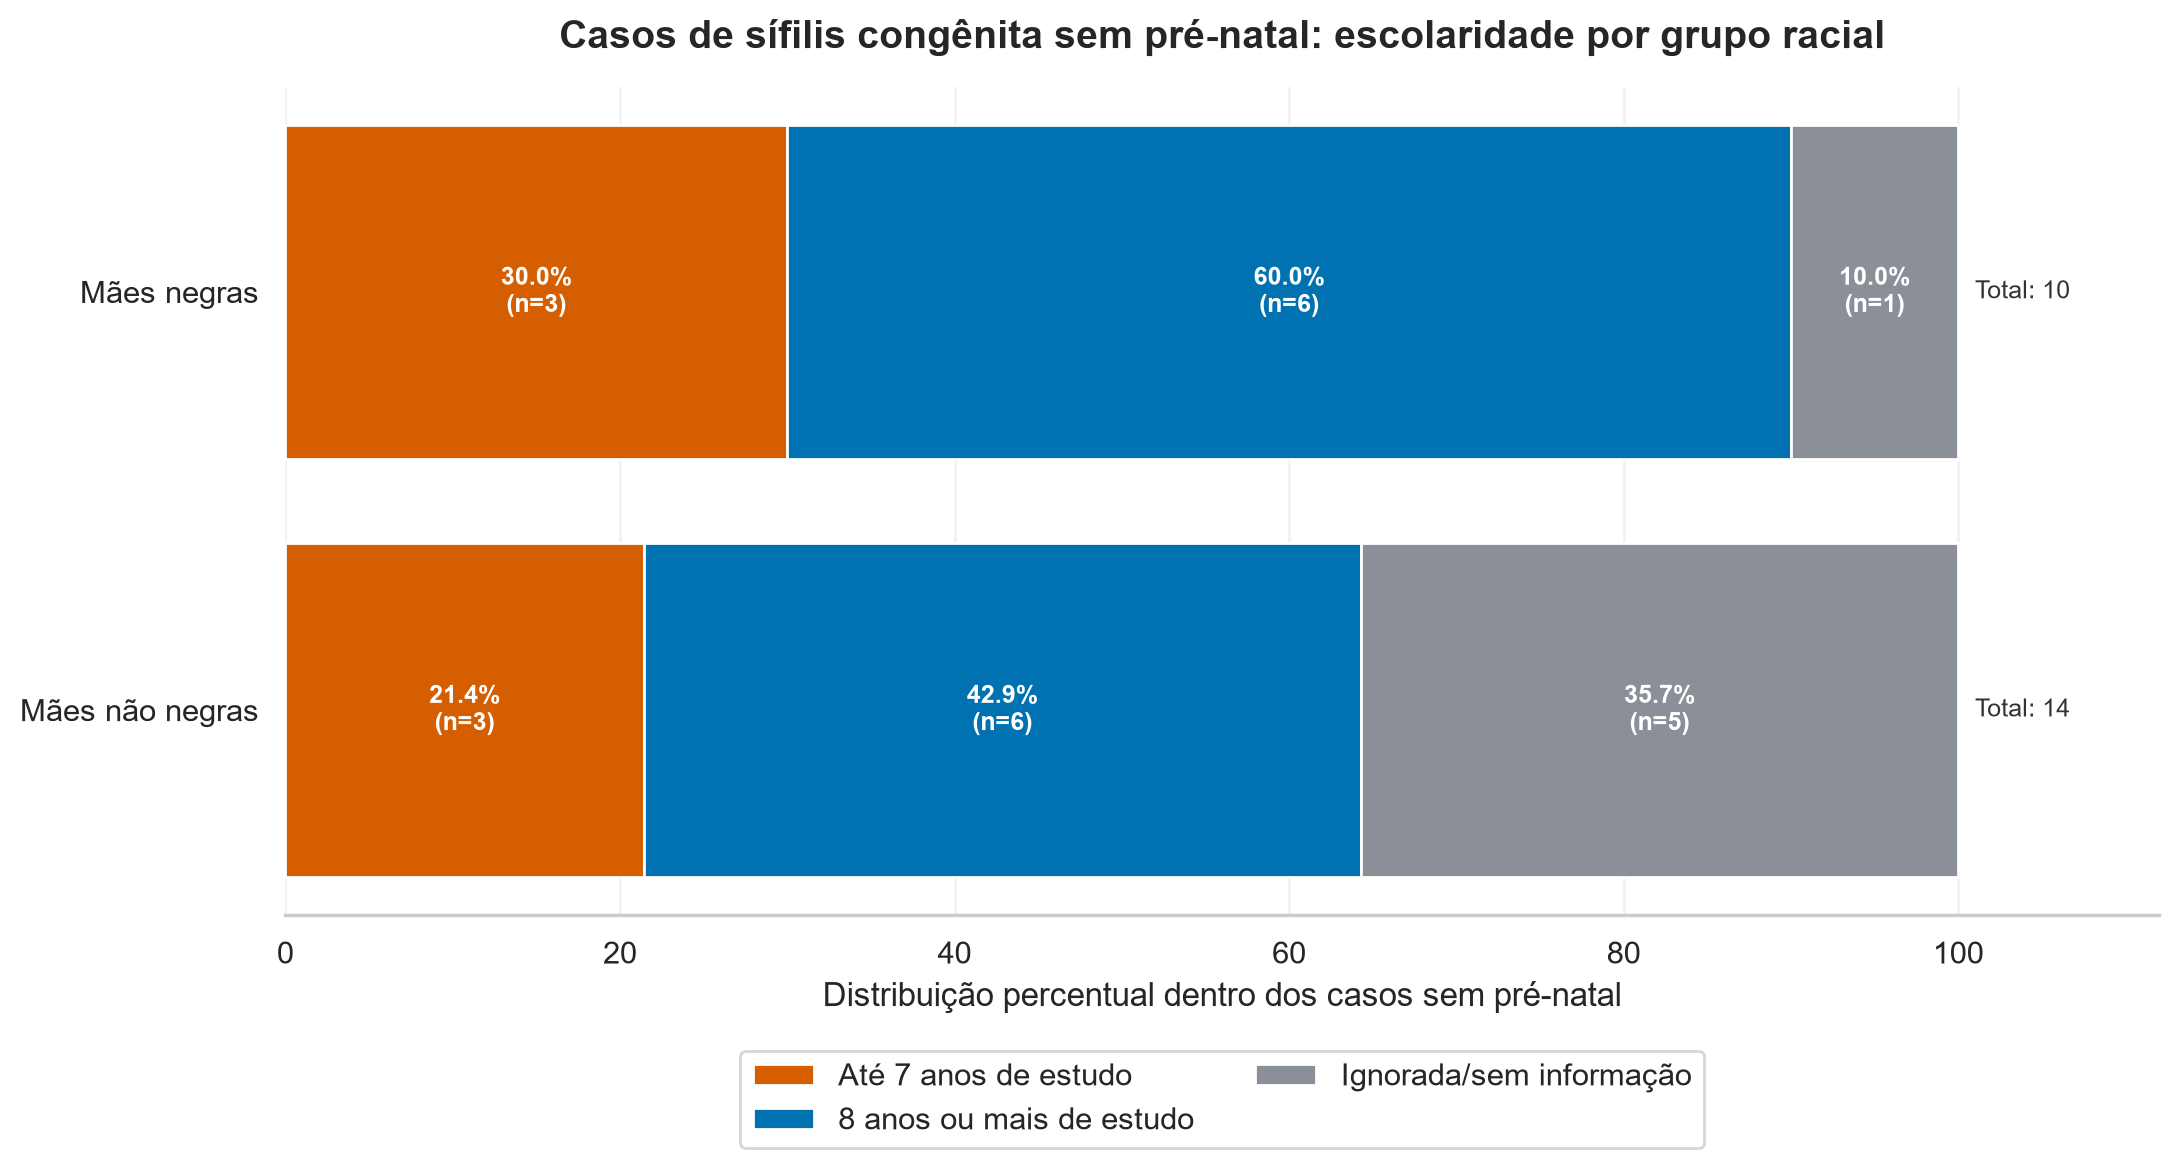
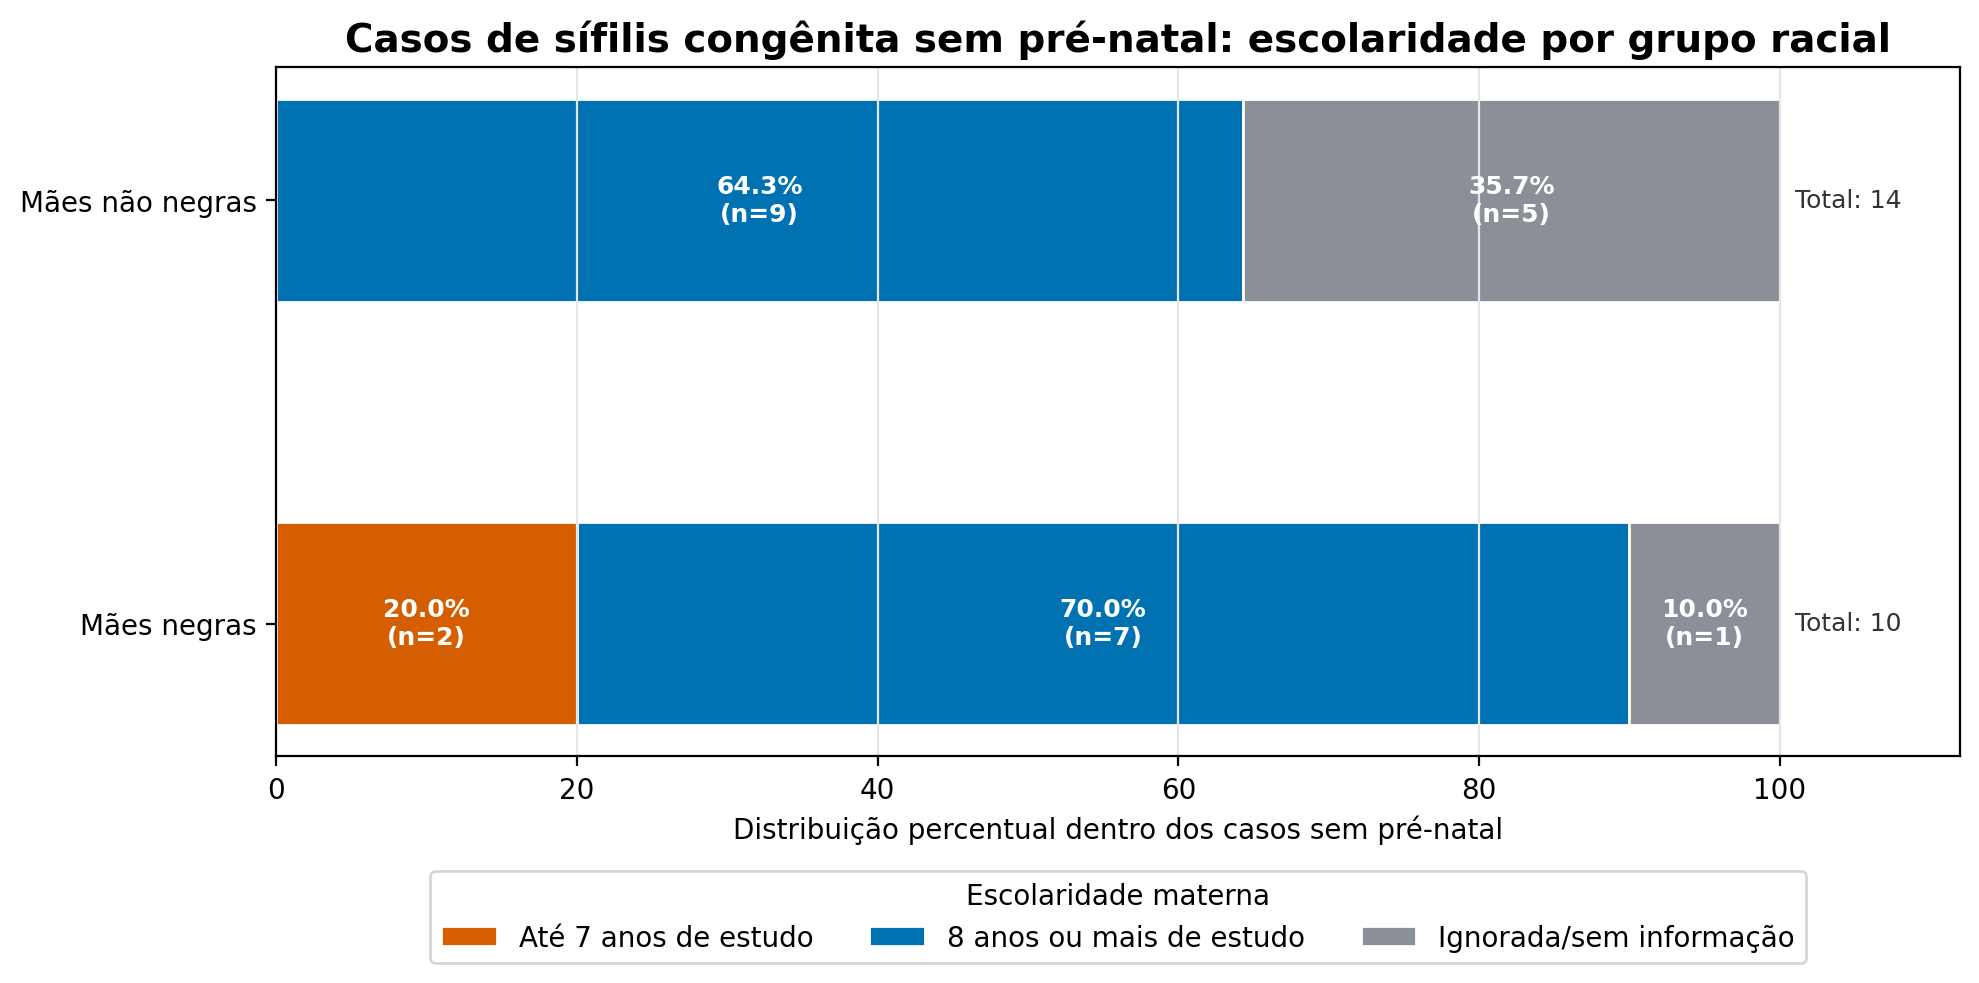
feat(viz): gerar graficos analiticos finais

diff --git a/src/visualization/generate_results.py b/src/visualization/generate_results.py
@@ -1,0 +1,393 @@
+from __future__ import annotations
+
+import argparse
+import os
+from pathlib import Path
+
+os.environ.setdefault("MPLCONFIGDIR", str(Path(".matplotlib").resolve()))
+
+import matplotlib
+import pandas as pd
+from sqlalchemy import create_engine, text
+
+from src.config import DEFAULT_DATABASE_URL, ROOT, resolve_project_path
+
+
+matplotlib.use("Agg")
+import matplotlib.pyplot as plt
+
+RESULTS_DIR = ROOT / "docs/assets/results"
+
+
+def parse_args() -> argparse.Namespace:
+    parser = argparse.ArgumentParser(description="Gera figuras finais a partir dos resultados analiticos.")
+    parser.add_argument(
+        "--database-url",
+        default=DEFAULT_DATABASE_URL,
+        help="URL SQLAlchemy do PostgreSQL.",
+    )
+    parser.add_argument(
+        "--audit-csv",
+        default="data/profiles/basedosdados_audit.csv",
+        help="CSV de auditoria da Base dos Dados.",
+    )
+    parser.add_argument(
+        "--output-dir",
+        default="docs/assets/results",
+        help="Diretorio de saida das imagens.",
+    )
+    return parser.parse_args()
+
+
+def save_lab_schooling_without_prenatal(database_url: str) -> Path:
+    output_dir = ROOT / "outputs/images/graphs"
+    output_dir.mkdir(parents=True, exist_ok=True)
+    engine = create_engine(database_url)
+    query = """
+SELECT
+    grupo_racial_mae,
+    escolaridade_mae,
+    SUM(casos_sc)::integer AS casos
+FROM gold.sinan_sc_sem_prenatal_escolaridade
+WHERE ano = 2024
+  AND cod_municipio_residencia = '431490'
+  AND grupo_racial_mae IN ('Maes negras', 'Maes nao negras')
+GROUP BY grupo_racial_mae, escolaridade_mae
+""".strip()
+    data = pd.read_sql_query(text(query), engine)
+
+    group_order = ["Maes negras", "Maes nao negras"]
+    schooling_order = ["Ate 7 anos de estudo", "8 anos ou mais de estudo", "Ignorada/sem informacao"]
+    display_group = {
+        "Maes negras": "Mães negras",
+        "Maes nao negras": "Mães não negras",
+    }
+    display_schooling = {
+        "Ate 7 anos de estudo": "Até 7 anos de estudo",
+        "8 anos ou mais de estudo": "8 anos ou mais de estudo",
+        "Ignorada/sem informacao": "Ignorada/sem informação",
+    }
+    base = pd.MultiIndex.from_product(
+        [group_order, schooling_order],
+        names=["grupo_racial_mae", "escolaridade_mae"],
+    ).to_frame(index=False)
+    plot_data = base.merge(data, on=["grupo_racial_mae", "escolaridade_mae"], how="left").fillna({"casos": 0})
+    plot_data["casos"] = plot_data["casos"].astype(int)
+    plot_data["total_grupo"] = plot_data.groupby("grupo_racial_mae")["casos"].transform("sum")
+    plot_data["percentual"] = plot_data.apply(
+        lambda row: 0 if row.total_grupo == 0 else row.casos / row.total_grupo * 100,
+        axis=1,
+    )
+
+    fig, ax = plt.subplots(figsize=(10, 5.2))
+    colors = {
+        "Ate 7 anos de estudo": "#D55E00",
+        "8 anos ou mais de estudo": "#0072B2",
+        "Ignorada/sem informacao": "#8A8F98",
+    }
+    left = {group: 0.0 for group in group_order}
+    y_positions = list(range(len(group_order)))
+    y_labels = [display_group[group] for group in group_order]
+    for schooling in schooling_order:
+        subset = plot_data[plot_data["escolaridade_mae"].eq(schooling)]
+        widths = subset["percentual"].tolist()
+        starts = [left[group] for group in group_order]
+        ax.barh(
+            y_positions,
+            widths,
+            left=starts,
+            color=colors[schooling],
+            edgecolor="white",
+            label=display_schooling[schooling],
+            height=0.48,
+        )
+        for group, start, width, cases in zip(group_order, starts, widths, subset["casos"], strict=True):
+            if cases > 0 and width >= 8:
+                ax.text(
+                    start + width / 2,
+                    y_positions[group_order.index(group)],
+                    f"{width:.1f}%\n(n={cases})",
+                    ha="center",
+                    va="center",
+                    color="white",
+                    fontsize=9,
+                    weight="bold",
+                )
+            left[group] += width
+
+    for group in group_order:
+        total = int(plot_data.loc[plot_data["grupo_racial_mae"].eq(group), "casos"].sum())
+        ax.text(101, y_positions[group_order.index(group)], f"Total: {total}", va="center", fontsize=9, color="#333333")
+
+    ax.set_xlim(0, 112)
+    ax.set_yticks(y_positions)
+    ax.set_yticklabels(y_labels)
+    ax.set_xlabel("Distribuição percentual dentro dos casos sem pré-natal")
+    ax.set_title("Casos de sífilis congênita sem pré-natal: escolaridade por grupo racial", fontsize=14, weight="bold")
+    ax.grid(axis="x", color="#E6E6E6")
+    ax.legend(title="Escolaridade materna", loc="lower center", bbox_to_anchor=(0.5, -0.32), ncol=3, frameon=True)
+    fig.tight_layout()
+
+    output = output_dir / "visualizacao_sifilis_congenita_poars_escolaridade_sem_prenatal.png"
+    fig.savefig(output, dpi=200, bbox_inches="tight")
+    plt.close(fig)
+    return output
+
+
+def save_environment_validation(database_url: str, output_dir: Path) -> Path:
+    engine = create_engine(database_url)
+    query = """
+SELECT 'SINAN RS 2024' AS indicador, COUNT(*)::integer AS valor
+FROM bronze.sinan_sifilis_congenita
+WHERE source_year = '2024'
+UNION ALL
+SELECT 'SINASC RS 2024', COUNT(*)::integer
+FROM bronze.sinasc_nascidos_vivos
+WHERE source_year = '2024'
+UNION ALL
+SELECT 'SINAN Porto Alegre 2024', COUNT(*)::integer
+FROM silver.sinan_sifilis_congenita
+WHERE ano = 2024 AND cod_municipio_residencia = '431490'
+UNION ALL
+SELECT 'SINASC Porto Alegre 2024', COUNT(*)::integer
+FROM silver.sinasc_nascidos_vivos
+WHERE ano = 2024 AND cod_municipio_residencia = '431490'
+""".strip()
+    data = pd.read_sql_query(text(query), engine)
+
+    fig, ax = plt.subplots(figsize=(9.5, 4.8))
+    colors = ["#006BA4", "#8F9DA8", "#B02A37", "#D55E00"]
+    bars = ax.barh(data["indicador"], data["valor"], color=colors)
+    ax.set_title("Validação da carga 2024", fontsize=14, weight="bold")
+    ax.set_xlabel("Registros")
+    ax.grid(axis="x", color="#E6E6E6")
+    ax.bar_label(bars, labels=[f"{value:,}".replace(",", ".") for value in data["valor"]], padding=4)
+    fig.tight_layout()
+
+    output = output_dir / "validacao_ambiente_dados.png"
+    fig.savefig(output, dpi=160)
+    plt.close(fig)
+    return output
+
+
+def save_overview(database_url: str, output_dir: Path) -> Path:
+    engine = create_engine(database_url)
+    query = """
+SELECT ano, casos_sc, nascidos_vivos, incidencia_sc_por_1000_nv
+FROM gold.indicadores_municipio_ano
+WHERE cod_municipio_residencia = '431490'
+ORDER BY ano
+""".strip()
+    data = pd.read_sql_query(text(query), engine)
+
+    fig, ax1 = plt.subplots(figsize=(10, 5.2))
+    ax1.bar(data["ano"], data["casos_sc"], color="#8F9DA8", label="Casos notificados")
+    ax1.set_ylabel("Casos notificados")
+    ax1.grid(axis="y", color="#E6E6E6")
+
+    ax2 = ax1.twinx()
+    ax2.plot(
+        data["ano"],
+        data["incidencia_sc_por_1000_nv"],
+        marker="o",
+        color="#006BA4",
+        linewidth=2.4,
+        label="Incidencia por 1.000 nascidos vivos",
+    )
+    ax2.set_ylabel("Casos por 1.000 nascidos vivos")
+    ax1.set_xlabel("Ano")
+    fig.suptitle("Porto Alegre: casos e incidencia de sifilis congenita", fontsize=14, weight="bold")
+    bars, labels1 = ax1.get_legend_handles_labels()
+    lines, labels2 = ax2.get_legend_handles_labels()
+    ax1.legend(bars + lines, labels1 + labels2, loc="upper right", frameon=True)
+    fig.tight_layout()
+
+    output = output_dir / "overview_sifilis_congenita.png"
+    fig.savefig(output, dpi=160)
+    plt.close(fig)
+    return output
+
+
+def save_prenatal_race_schooling(database_url: str, output_dir: Path) -> Path:
+    engine = create_engine(database_url)
+    query = """
+SELECT
+    grupo_racial_mae,
+    realizacao_prenatal,
+    escolaridade_mae,
+    COUNT(*)::integer AS casos
+FROM silver.sinan_sifilis_congenita
+WHERE ano = 2024
+  AND cod_municipio_residencia = '431490'
+  AND grupo_racial_mae IN ('Maes negras', 'Maes nao negras')
+GROUP BY grupo_racial_mae, realizacao_prenatal, escolaridade_mae
+""".strip()
+    data = pd.read_sql_query(text(query), engine)
+    data["dimensao"] = data["grupo_racial_mae"] + " | " + data["realizacao_prenatal"]
+    pivot = data.pivot_table(
+        index="dimensao",
+        columns="escolaridade_mae",
+        values="casos",
+        aggfunc="sum",
+        fill_value=0,
+    )
+    order = [
+        "Maes negras | Sem pre-natal",
+        "Maes nao negras | Sem pre-natal",
+        "Maes negras | Com pre-natal",
+        "Maes nao negras | Com pre-natal",
+    ]
+    columns = ["Ate 7 anos de estudo", "8 anos ou mais de estudo", "Ignorada/sem informacao"]
+    pivot = pivot.reindex(order).fillna(0)
+    for column in columns:
+        if column not in pivot.columns:
+            pivot[column] = 0
+    pivot = pivot[columns]
+    row_labels = {
+        "Maes negras | Sem pre-natal": "Mães negras | Sem pré-natal",
+        "Maes nao negras | Sem pre-natal": "Mães não negras | Sem pré-natal",
+        "Maes negras | Com pre-natal": "Mães negras | Com pré-natal",
+        "Maes nao negras | Com pre-natal": "Mães não negras | Com pré-natal",
+    }
+    column_labels = {
+        "Ate 7 anos de estudo": "Até 7 anos de estudo",
+        "8 anos ou mais de estudo": "8 anos ou mais de estudo",
+        "Ignorada/sem informacao": "Ignorada/sem informação",
+    }
+
+    fig, ax = plt.subplots(figsize=(10, 5.6))
+    colors = {
+        "Ate 7 anos de estudo": "#D55E00",
+        "8 anos ou mais de estudo": "#0072B2",
+        "Ignorada/sem informacao": "#8A8F98",
+    }
+    left = pd.Series(0, index=pivot.index, dtype=float)
+    for column in columns:
+        ax.barh(
+            range(len(pivot.index)),
+            pivot[column],
+            left=left,
+            color=colors[column],
+            edgecolor="white",
+            label=column_labels[column],
+        )
+        left += pivot[column]
+    ax.set_yticks(range(len(pivot.index)))
+    ax.set_yticklabels([row_labels[index] for index in pivot.index])
+    ax.set_title("Porto Alegre 2024: pré-natal, raça/cor e escolaridade materna", fontsize=14, weight="bold")
+    ax.set_xlabel("Casos notificados")
+    ax.grid(axis="x", color="#E6E6E6")
+    ax.legend(title="Escolaridade", loc="lower center", bbox_to_anchor=(0.5, -0.32), ncol=3, frameon=True)
+    fig.tight_layout()
+
+    output = output_dir / "prenatal_raca_escolaridade.png"
+    fig.savefig(output, dpi=160, bbox_inches="tight")
+    plt.close(fig)
+    return output
+
+
+def save_basedosdados_periods(audit_csv: Path, output_dir: Path) -> Path:
+    audit = pd.read_csv(audit_csv)
+    audit[["ano_min", "ano_max"]] = audit["available_period"].str.split("-", expand=True).astype(int)
+    labels = {
+        "basedosdados.br_ms_sinasc.microdados": "SINASC",
+        "basedosdados.br_ms_sim.microdados": "SIM",
+        "basedosdados.br_ms_cnes.estabelecimento": "CNES",
+        "basedosdados.br_ms_populacao.municipio": "Populacao",
+        "basedosdados.br_ms_sih.servicos_profissionais": "SIH",
+        "basedosdados.br_ms_sinan.microdados_violencia": "SINAN violencia",
+    }
+    audit["label"] = audit["table"].map(labels).fillna(audit["table"])
+    audit = audit.sort_values("ano_min")
+
+    fig, ax = plt.subplots(figsize=(10, 4.8))
+    colors = ["#006BA4", "#FF800E", "#ABABAB", "#595959", "#5F9ED1", "#C85200"]
+    y_positions = list(range(len(audit)))
+    for idx, (_, row) in enumerate(audit.iterrows()):
+        ax.barh(
+            y_positions[idx],
+            row["ano_max"] - row["ano_min"] + 1,
+            left=row["ano_min"],
+            color=colors[idx % len(colors)],
+            height=0.55,
+        )
+        ax.text(row["ano_min"] - 0.4, y_positions[idx], str(row["ano_min"]), va="center", ha="right", fontsize=9)
+        ax.text(row["ano_max"] + 0.4, y_positions[idx], str(row["ano_max"]), va="center", ha="left", fontsize=9)
+
+    ax.axvspan(2015, 2024, color="#D9EAD3", alpha=0.45)
+    ax.set_title(
+        "Cobertura temporal auditada na Base dos Dados\nFaixa verde: recorte usado no projeto (2015-2024)",
+        fontsize=13,
+        weight="bold",
+    )
+    ax.set_xlabel("Ano disponivel")
+    ax.set_ylabel("Tabela auditada")
+    ax.set_yticks(y_positions)
+    ax.set_yticklabels(audit["label"])
+    ax.set_xlim(audit["ano_min"].min() - 3, audit["ano_max"].max() + 3)
+    ax.grid(axis="x", color="#E6E6E6")
+    fig.tight_layout()
+
+    output = output_dir / "auditoria_basedosdados_periodos.png"
+    fig.savefig(output, dpi=160)
+    plt.close(fig)
+    return output
+
+
+def save_integrated_context(database_url: str, output_dir: Path) -> Path:
+    query = (ROOT / "database/queries/14_contexto_integrado_municipio.sql").read_text(encoding="utf-8")
+    engine = create_engine(database_url)
+    contexto = pd.read_sql_query(text(query), engine)
+
+    fig, (ax1, ax2) = plt.subplots(2, 1, figsize=(10, 6.2), sharex=True, height_ratios=[2, 1.3])
+    ax1.plot(
+        contexto["ano"],
+        contexto["incidencia_sc_por_1000_nv"],
+        marker="o",
+        color="#006BA4",
+        linewidth=2.5,
+        label="Incidencia por 1.000 nascidos vivos",
+    )
+    ax1.set_ylabel("Casos por 1.000 nascidos vivos")
+    ax1.grid(axis="y", color="#E6E6E6")
+    ax1.legend(loc="upper right", frameon=True)
+
+    ax2.bar(
+        contexto["ano"],
+        contexto["estabelecimentos_distintos"],
+        color="#8F9DA8",
+        label="Estabelecimentos CNES distintos em dezembro",
+    )
+    ax2.set_ylabel("Estabelecimentos CNES")
+    ax2.set_xlabel("Ano")
+    ax2.grid(axis="y", color="#E6E6E6")
+    ax2.legend(loc="upper left", frameon=True)
+
+    fig.suptitle("Porto Alegre: incidencia de sifilis congenita e contexto assistencial", fontsize=14, weight="bold")
+    fig.tight_layout()
+
+    output = output_dir / "contexto_integrado_basedosdados.png"
+    fig.savefig(output, dpi=160)
+    plt.close(fig)
+    return output
+
+
+def main() -> None:
+    args = parse_args()
+    output_dir = resolve_project_path(args.output_dir)
+    output_dir.mkdir(parents=True, exist_ok=True)
+
+    generated = [
+        save_lab_schooling_without_prenatal(args.database_url),
+        save_environment_validation(args.database_url, output_dir),
+        save_overview(args.database_url, output_dir),
+        save_prenatal_race_schooling(args.database_url, output_dir),
+        save_basedosdados_periods(resolve_project_path(args.audit_csv), output_dir),
+        save_integrated_context(args.database_url, output_dir),
+    ]
+    for output in generated:
+        print(output.relative_to(ROOT))
+
+
+if __name__ == "__main__":
+    main()

diff --git a/src/visualization/__init__.py b/src/visualization/__init__.py
@@ -1,0 +1,1 @@
+"""Visualization helpers for analytical result figures."""
